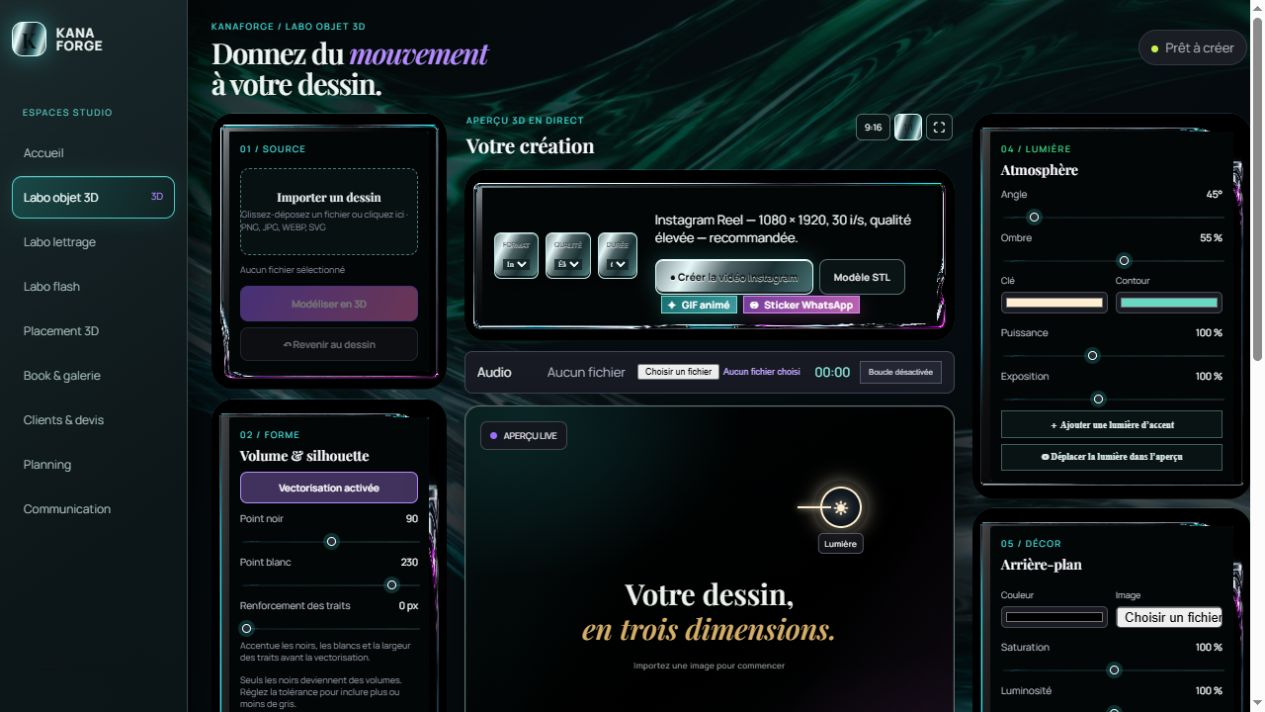
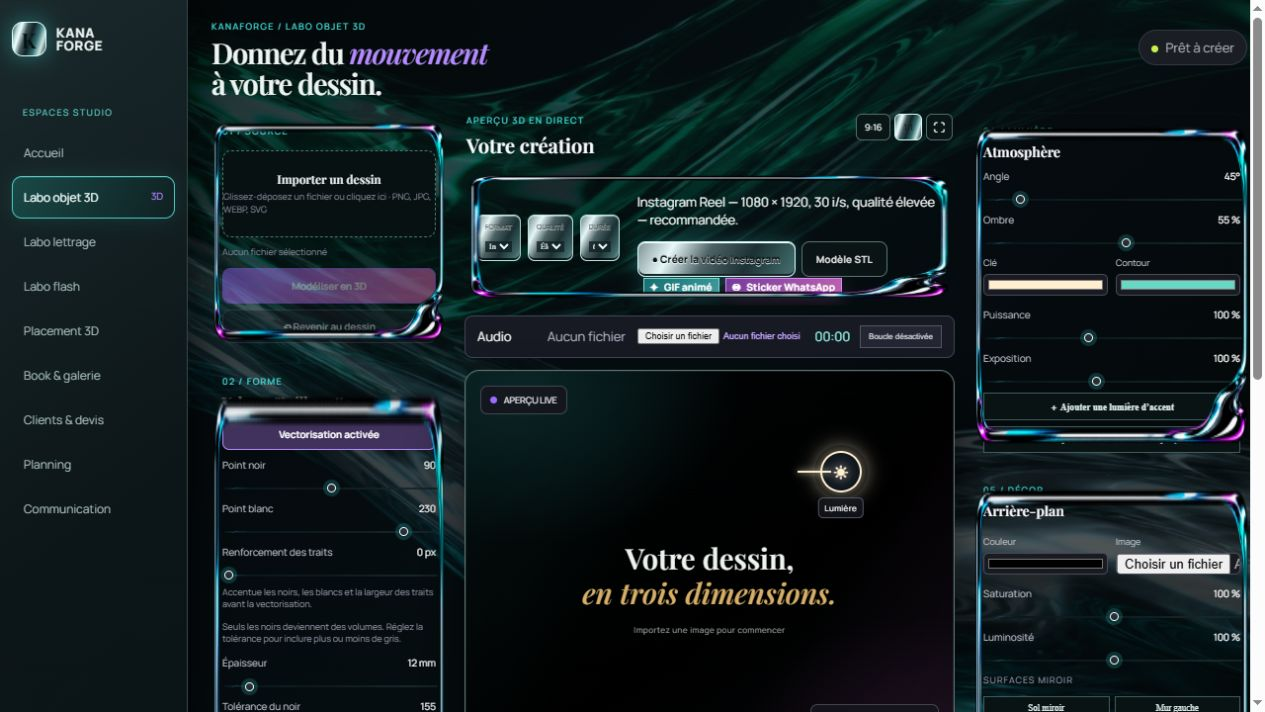
Use transparent liquid chrome frame outlines

Changed region(s): [[0.1542, 0.1545, 1.0, 1.0], [0.4625, 0.618, 0.7091, 0.8961], [0.4933, 0.927, 0.6166, 0.9579]]

diff --git a/src/hard-metal-theme.css b/src/hard-metal-theme.css
@@ -181,21 +181,50 @@ body:has(#object3d-app):before{background-image:linear-gradient(132deg,#04090aa8
 #object3d-app .studio-grid .tool-card,
 #object3d-app .studio-grid .compare-card,
 #object3d-app footer{
-  background-color:#030607!important;
+  position:relative!important;
+  isolation:isolate;
+  background-color:transparent!important;
   background-image:none!important;
-  /* L'image est utilisée comme un véritable bord neuf-tranches : sa coulée
-     reste sur le pourtour et ne passe jamais devant les contrôles. */
-  border:18px solid transparent!important;
-  border-image-source:var(--liquid-window-frame)!important;
-  border-image-slice:180!important;
-  border-image-width:18px!important;
-  border-image-repeat:stretch!important;
+  border:0!important;
   border-radius:22px!important;
-  background-clip:padding-box!important;
   clip-path:inset(0 round 22px);
   overflow:hidden!important;
-  box-shadow:0 20px 42px #000c,0 0 0 1px #7cffff66!important;
+  box-shadow:0 14px 30px #0008,0 0 22px #6effff25!important;
+  --liquid-window-outline:url('./assets/window-frame-liquid-outline.png');
 }
+
+/* Un PNG à alpha réel est posé comme un cache de contour : le contenu intérieur
+   reste intégralement transparent et le chrome détermine seul la limite. */
+#tattoo-studio main:not(.page-placement) .workspace>section::after,
+#tattoo-studio main:not(.page-placement) .workspace>aside::after,
+#tattoo-studio .page-placement .avatar-workspace::after,
+#tattoo-studio .page-placement .avatar-panel::after,
+#tattoo-studio .page-placement .avatar-bottom-settings::after,
+#tattoo-studio .page-placement .placement-preview-settings::after,
+#object3d-app .studio-grid .source-card::after,
+#object3d-app .studio-grid .tool-card::after,
+#object3d-app .studio-grid .compare-card::after,
+#object3d-app footer::after{
+  content:'';
+  position:absolute;
+  z-index:8;
+  pointer-events:none;
+  inset:0;
+  background-image:var(--liquid-window-outline);
+  background-repeat:no-repeat;
+  background-position:center;
+  background-size:100% 100%;
+}
+#tattoo-studio main:not(.page-placement) .workspace>section>*,
+#tattoo-studio main:not(.page-placement) .workspace>aside>*,
+#tattoo-studio .page-placement .avatar-workspace>*,
+#tattoo-studio .page-placement .avatar-panel>*,
+#tattoo-studio .page-placement .avatar-bottom-settings>*,
+#tattoo-studio .page-placement .placement-preview-settings>*,
+#object3d-app .studio-grid .source-card>*,
+#object3d-app .studio-grid .tool-card>*,
+#object3d-app .studio-grid .compare-card>*,
+#object3d-app footer>*{position:relative;z-index:1}
 
 /* Atelier : une grande coulée pour les espaces de création, un rail pour les
    inspecteurs et une torsion plus dense autour de l'aperçu. */

diff --git a/design-qa.md b/design-qa.md
@@ -1,6 +1,6 @@
 **Comparison target**
 
-- Source visual truth: `src/assets/window-frame-liquid-corner.png` — 1487 × 1058 px, generated liquid-chrome window frame selected by the user.
+- Source visual truth: `src/assets/window-frame-liquid-outline.png` — generated transparent-alpha liquid-chrome outline derived from the selected KanaForge frame.
 - Implementation evidence: `frame-cards-qa.png` — 1265 × 712 px, browser-rendered lettering workspace at 1265 × 712 CSS px / device scale factor 1.
 - Additional implementation evidence: `object3d-frames-qa.png` — browser-rendered Object 3D workspace at the same viewport and state.
 - State: desktop, dark hard-metal theme, default/empty studio state. The source is a reusable frame asset rather than a full product screen; the comparison is therefore focused on the panel perimeter treatment rather than page layout.
@@ -8,15 +8,15 @@
 **Findings**
 
 - No actionable P0, P1 or P2 mismatches.
-- The selected chrome frame is now applied as a nine-slice border image rather than a stretched panel background. This preserves its cyan/silver/magenta perimeter without covering controls or text.
-- Source frame details are intentionally varied by panel role: liquid corner for broad creation/export panels, technical rail for inspectors, and left-flow contour for compact settings. The material, black interior, chrome highlights, and asymmetry remain consistent.
+- The generated outline is composited as a transparent overlay. Its black interior is physically transparent (alpha 0) and no longer contributes a dark panel fill.
+- Every framed panel is clipped to its 22 px rounded contour, so the chrome itself determines the visible edge and no rectangular black corner can protrude beyond it.
 
 **Required fidelity surfaces**
 
 - Fonts and typography: unchanged from the existing application; the border treatment does not alter readable text, weights, wrapping, or UI hierarchy.
-- Spacing and layout rhythm: the 18 px border is contained in each existing window box. A rounded clipping mask removes the rectangular black spill while panels retain their grid positions and controls remain fully visible.
+- Spacing and layout rhythm: the transparent chrome outline is inset exactly within each existing window box. A rounded clipping mask removes rectangular spill while panels retain their grid positions and controls remain fully visible.
 - Colors and visual tokens: cyan, polished silver, magenta, and black are sampled directly from the selected visual asset. Existing atelier accent colors continue to coordinate the surrounding controls.
-- Image quality and asset fidelity: generated raster assets are used directly as `border-image` sources; no CSS illustration substitutes for the selected liquid-metal frame. Screenshot inspection shows crisp chrome rails at both wide and narrow panel sizes.
+- Image quality and asset fidelity: a generated PNG with true alpha is used directly as the frame overlay; no black photographic asset or CSS illustration fills a window interior. Screenshot inspection shows a continuous chrome contour on both wide and narrow panels.
 - Copy and content: unchanged.
 
 **Focused-region comparison**
@@ -34,6 +34,7 @@
 
 - [x] Add selected liquid-chrome frame and two compatible variations as application assets.
 - [x] Apply role-based frame variants to Studio and Object 3D windows.
+- [x] Replace opaque frame interiors with a true transparent-alpha contour asset.
 - [x] Clip each frame to its rounded contour so no black rectangular corner can extend past the chrome.
 - [x] Preserve reduced-motion behavior and content readability.
 - [x] Build and visually verify the two principal interfaces.
